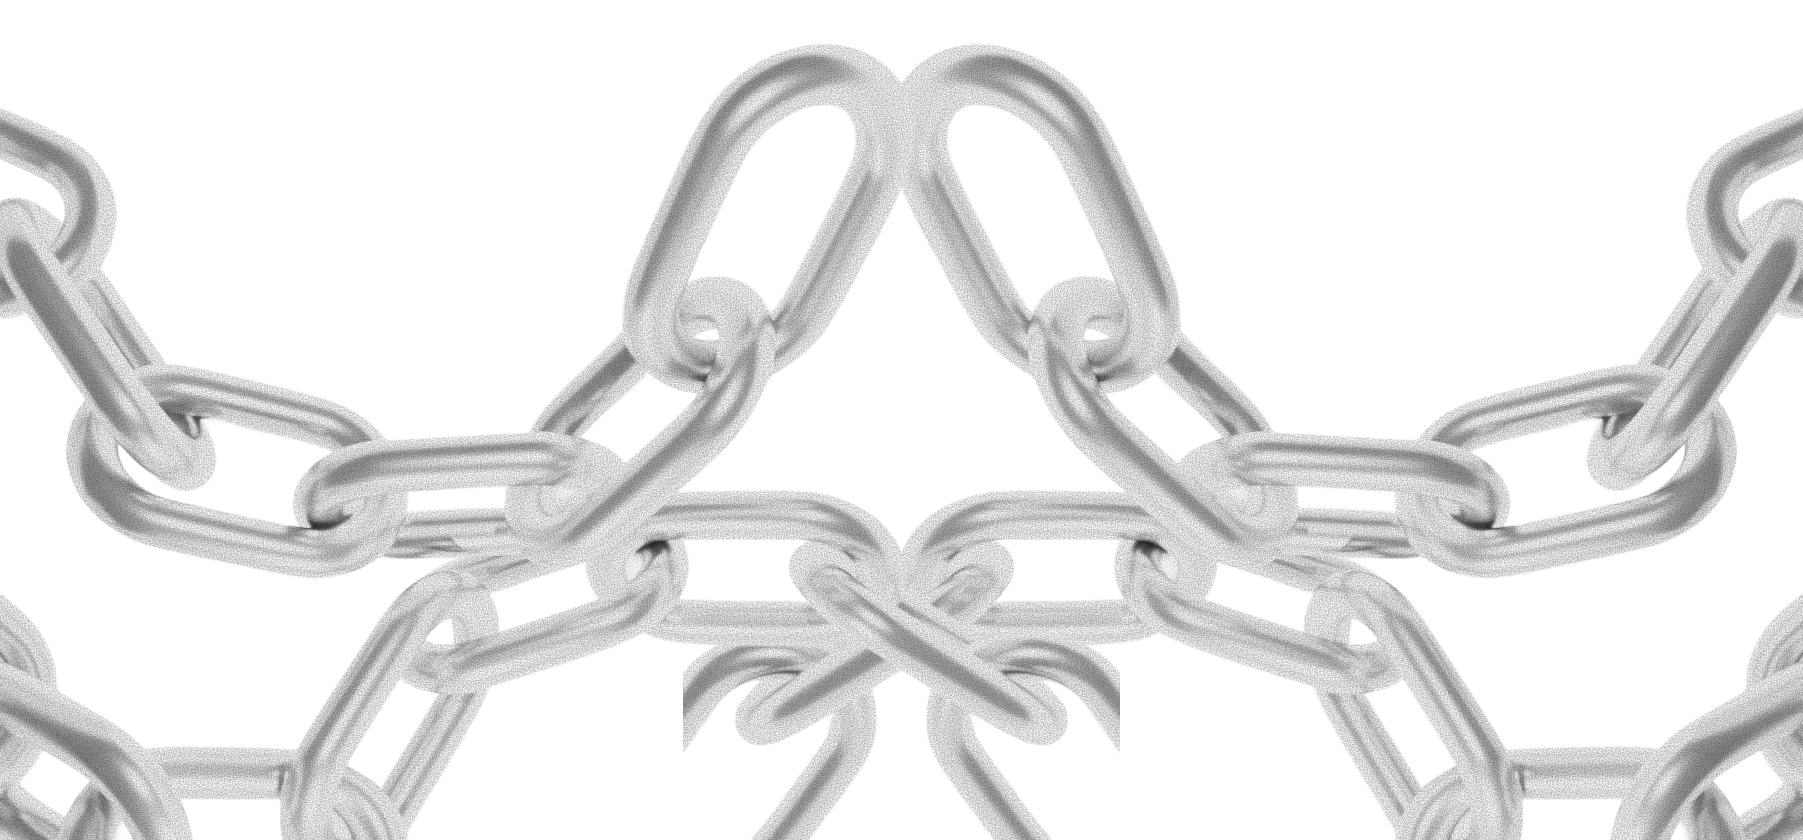
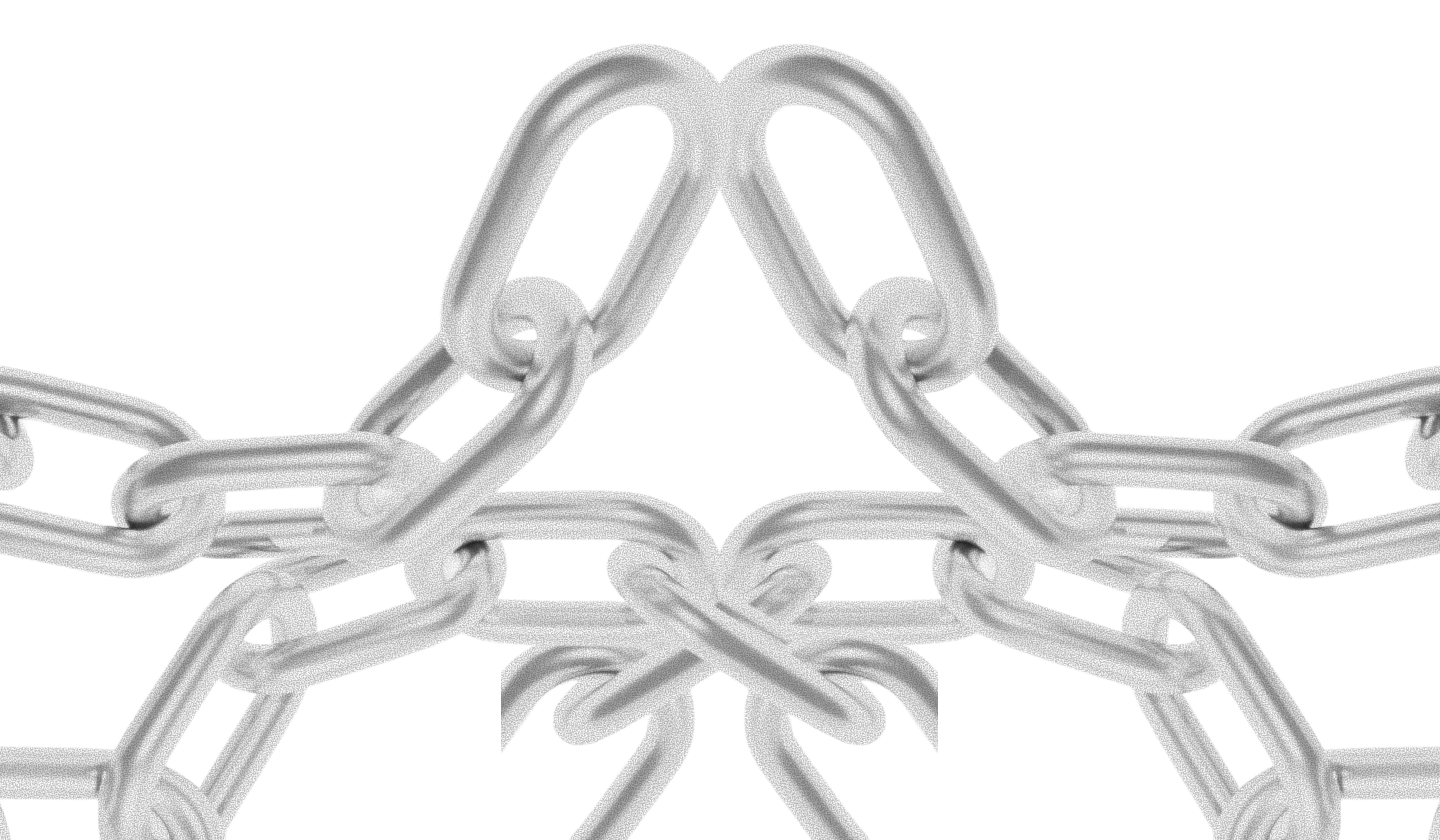
feature: addjusted chains background in header

diff --git a/src/components/HeroSection.tsx b/src/components/HeroSection.tsx
@@ -2,7 +2,7 @@ export const HeroSection = () => {
   return (
     <div
       id="tw-scope"
-      className="flex px-30 justify-center items-center max-h-206 overflow-hidden relative"
+      className="flex -mt-37 pt-40 px-30 justify-center items-center max-h-242 overflow-hidden relative"
     >
       <div className="p-20.75 rounded-full bg-white/25 border border-[#EDEDED] circle-shadow backdrop-blur-sm">
         <div className="p-24.25 rounded-full bg-white/50 border border-[#EDEDED] circle-shadow backdrop-blur-sm">
@@ -38,7 +38,7 @@ export const HeroSection = () => {
       </div>
 
       <img
-        className="absolute left-[50%] transform translate-x-[-50%] scale-[1.25] z-[-1] right-0 bottom-20 w-full"
+        className="absolute left-[50%] transform translate-x-[-50%]  z-[-1] right-0 bottom-0 w-full max-w-[1440px]"
         src="./img/chain.png"
         alt=""
       />

diff --git a/src/css/custom.css b/src/css/custom.css
@@ -20,6 +20,11 @@ html {
   overflow-x: hidden;
 }
 
+body {
+  max-width: 1440px;
+  margin: 0 auto;
+}
+
 html,
 * {
   font-family: "Inter", sans-serif;
@@ -27,4 +32,8 @@ html,
 
 :root {
   --ifm-navbar-height: 4.75rem;
+}
+
+[data-theme="dark"] body {
+  background-color: #1f1f21;
 }
